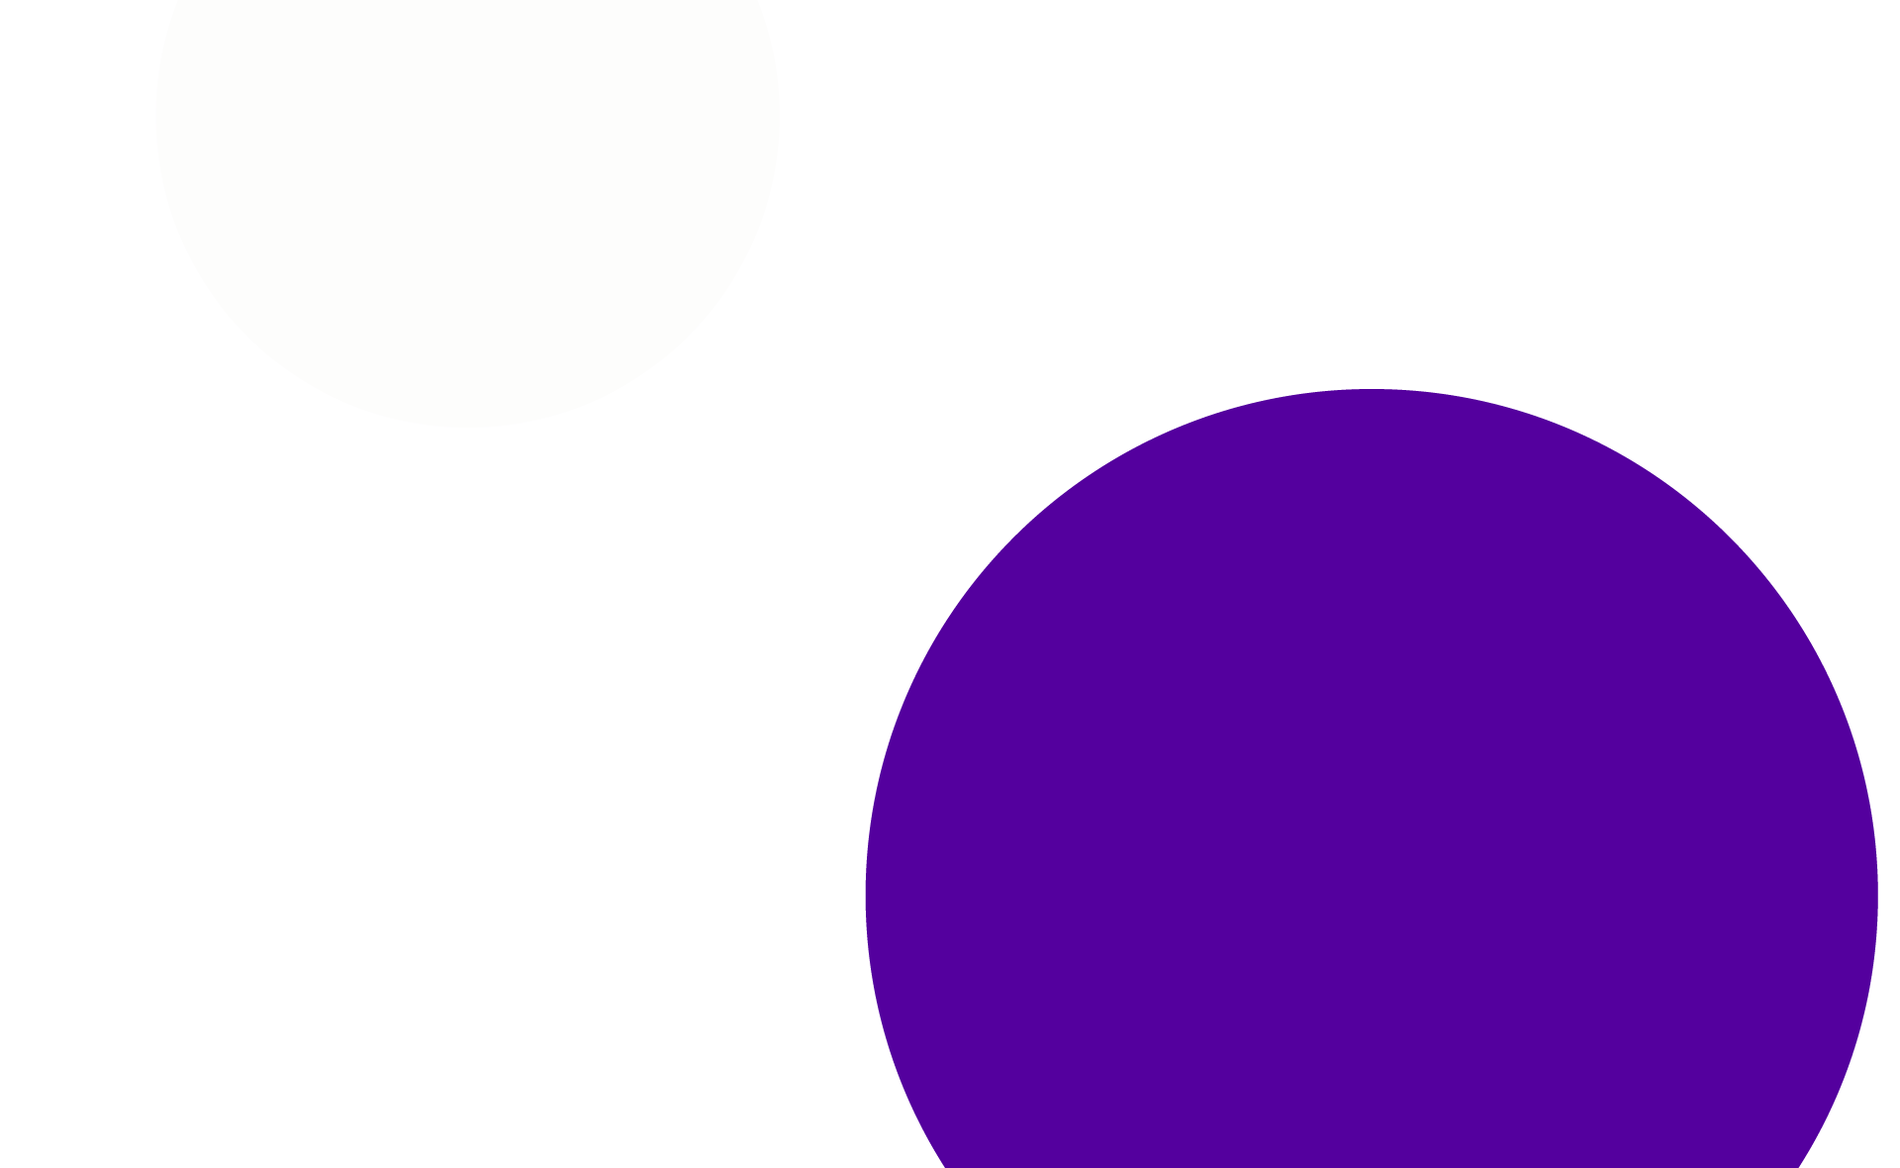
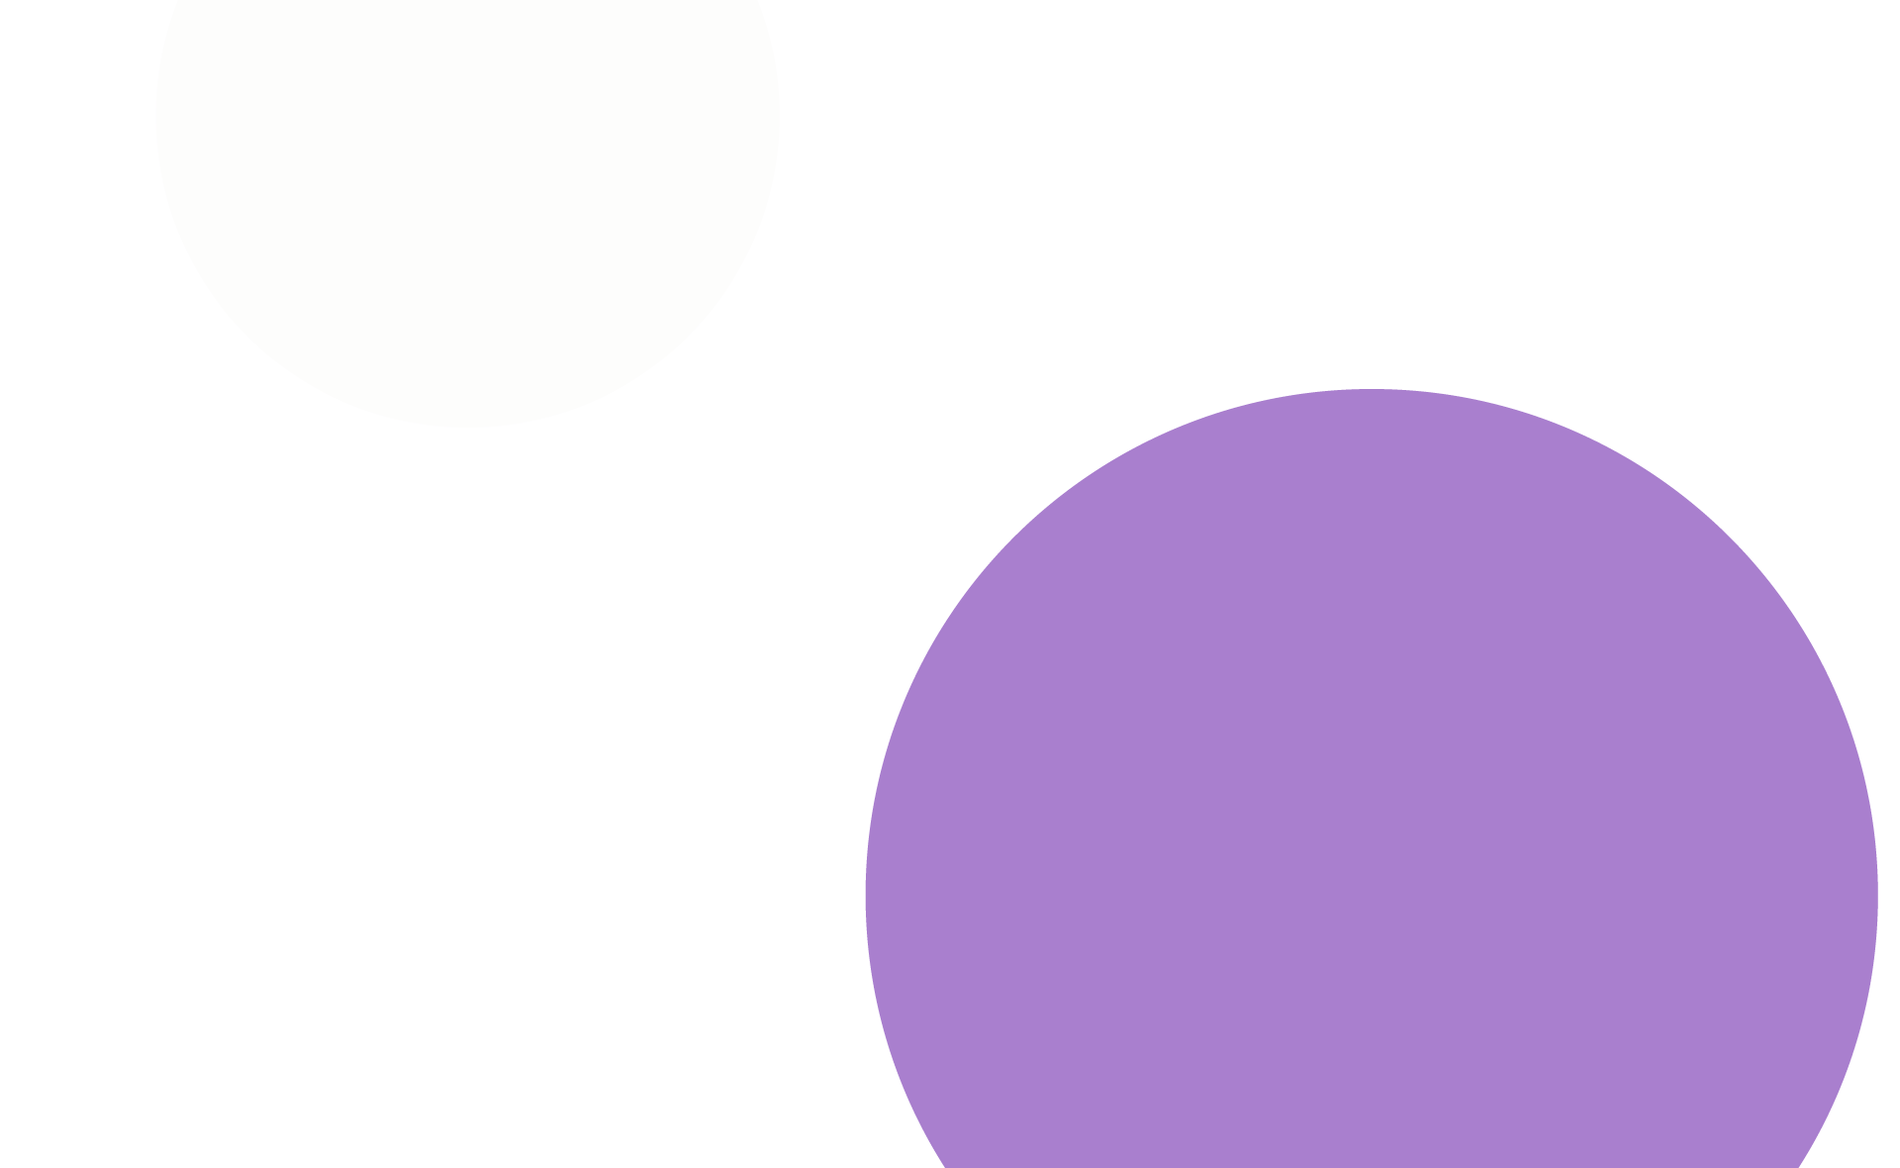
Ajuste cores do hero e ajuste nos icones do footer

Changed region(s): [[0.4375, 0.3356, 1.0, 1.0]]

diff --git a/sobre-mim.html b/sobre-mim.html
@@ -38,14 +38,11 @@
                     <div class="bio-text">
                         <h2 class="title-section">Há 9 anos trabalhando com comunicação visual.</h2>
                         <div class="left-red-line-spacing-1-2"></div>
-                        <h3>Formação em Design Gráfico e
-                            histórico como Diretor de Arte
-                            e UX/UI Designer.
+                        <h3>Formação em Design Gráfico e histórico como Diretor de Arte e UX/UI Designer.
                         </h3>
-                        <p>Experiência desenvolvendo de
-                            sites utilizando HTML, CSS, JavaScript e WordPress. Criação de logotipos e materiais
-                            gráficos utilizando Illustrator, Photoshop, CorelDRAW e Figma. Edição e animação de
-                            anúncios em vídeos utilizando Premiere e After Effects.
+                        <p>Experiência desenvolvendo sites em HTML, CSS, JavaScript e também WordPress. Atuo na criação
+                            de logotipos e materiais gráficos utilizando Illustrator, Photoshop, CorelDRAW e Figma.
+                            Também na edição e animação de anúncios em vídeos utilizando Premiere e After Effects.
                         </p>
                     </div>
 
@@ -82,7 +79,8 @@
                                     <ol class="skill-accordeon-text">
                                         <li class="accordeon-list">Estruturação semântica de páginas web.</li>
                                         <li class="accordeon-list">Otimização para motores de busca (SEO técnico).</li>
-                                        <li class="accordeon-list">Implementação de padrões de acessibilidade digital.</li>
+                                        <li class="accordeon-list">Implementação de padrões de acessibilidade digital.
+                                        </li>
                                         <li class="accordeon-list">Organização da arquitetura de tags do site.</li>
                                     </ol>
                                 </div>
@@ -103,10 +101,13 @@
                             <div class="accordion-content">
                                 <div class="content-inner">
                                     <ol class="skill-accordeon-text">
-                                        <li class="accordeon-list">Criação de menus retráteis, abas navegáveis e carrosséis de imagens.</li>
-                                        <li class="accordeon-list">Aplicação de efeitos visuais acionados por cliques ou rolagem de página.
+                                        <li class="accordeon-list">Criação de menus retráteis, abas navegáveis e
+                                            carrosséis de imagens.</li>
+                                        <li class="accordeon-list">Aplicação de efeitos visuais acionados por cliques ou
+                                            rolagem de página.
                                         </li class="accordeon-list">
-                                        <li class="accordeon-list">Validação de campos em formulários e armazenamento de informações locais no
+                                        <li class="accordeon-list">Validação de campos em formulários e armazenamento de
+                                            informações locais no
                                             navegador.
                                         </li>
                                     </ol>
@@ -128,7 +129,8 @@
                             <div class="accordion-content">
                                 <div class="content-inner">
                                     <ol class="skill-accordeon-text">
-                                        <li class="accordeon-list">Desenvolvimento de sites com diversos temas e plugins</li>
+                                        <li class="accordeon-list">Desenvolvimento de sites com diversos temas e plugins
+                                        </li>
                                         <li class="accordeon-list">Otimização de carregamento de páginas e cache.</li>
                                         <li class="accordeon-list">Integração de lojas virtuais e landing pages.</li>
                                     </ol>
@@ -152,10 +154,12 @@
                             <div class="accordion-content">
                                 <div class="content-inner">
                                     <ol class="skill-accordeon-text">
-                                        <li class="accordeon-list">Desenvolvimento responsivo com Flexbox e Grid Layout.</li>
+                                        <li class="accordeon-list">Desenvolvimento responsivo com Flexbox e Grid Layout.
+                                        </li>
                                         <li class="accordeon-list">Estilização de interfaces e controle de layouts.</li>
                                         <li class="accordeon-list">Criação de animações e microinterações nativas.</li>
-                                        <li class="accordeon-list">Resolução de quebras de layout em múltiplos dispositivos.</li>
+                                        <li class="accordeon-list">Resolução de quebras de layout em múltiplos
+                                            dispositivos.</li>
                                     </ol>
                                 </div>
                             </div>
@@ -175,9 +179,12 @@
                             <div class="accordion-content">
                                 <div class="content-inner">
                                     <ol class="skill-accordeon-text">
-                                        <li class="accordeon-list">Controle de versão de código e rastreamento de alterações.</li>
-                                        <li class="accordeon-list">Gerenciamento de repositórios remotos e fluxos em equipe.</li>
-                                        <li class="accordeon-list">Envio seguro de atualizações locais para o servidor.</li>
+                                        <li class="accordeon-list">Controle de versão de código e rastreamento de
+                                            alterações.</li>
+                                        <li class="accordeon-list">Gerenciamento de repositórios remotos e fluxos em
+                                            equipe.</li>
+                                        <li class="accordeon-list">Envio seguro de atualizações locais para o servidor.
+                                        </li>
                                         </li>
                                     </ol>
                                 </div>
@@ -198,8 +205,10 @@
                             <div class="accordion-content">
                                 <div class="content-inner">
                                     <ol class="skill-accordeon-text">
-                                        <li class="accordeon-list">Desenvolvimento de layouts responsivos para múltiplos dispositivos.</li>
-                                        <li class="accordeon-list">Criação de templates globais de cabeçalho, rodapé e posts.</li>
+                                        <li class="accordeon-list">Desenvolvimento de layouts responsivos para múltiplos
+                                            dispositivos.</li>
+                                        <li class="accordeon-list">Criação de templates globais de cabeçalho, rodapé e
+                                            posts.</li>
                                         <li v>Integração de formulários, pop-ups e widgets dinâmicos.</li>
                                     </ol>
                                 </div>
@@ -234,10 +243,14 @@
                             <div class="accordion-content">
                                 <div class="content-inner">
                                     <ol class="skill-accordeon-text">
-                                        <li class="accordeon-list">Criação de logotipos, identidades visuais e marcas.</li>
-                                        <li class="accordeon-list">Desenvolvimento de iconografia e ilustrações vetoriais.</li>
-                                        <li class="accordeon-list">Diagramação de materiais impressos e institucionais.</li>
-                                        <li class="accordeon-list">Fechamento de arquivos para impressão e facas de corte.</li>
+                                        <li class="accordeon-list">Criação de logotipos, identidades visuais e marcas.
+                                        </li>
+                                        <li class="accordeon-list">Desenvolvimento de iconografia e ilustrações
+                                            vetoriais.</li>
+                                        <li class="accordeon-list">Diagramação de materiais impressos e institucionais.
+                                        </li>
+                                        <li class="accordeon-list">Fechamento de arquivos para impressão e facas de
+                                            corte.</li>
                                     </ol>
                                 </div>
                             </div>
@@ -257,9 +270,11 @@
                             <div class="accordion-content">
                                 <div class="content-inner">
                                     <ol class="skill-accordeon-text">
-                                        <li class="accordeon-list">Edição e montagem de vídeos institucionais e comerciais.</li>
+                                        <li class="accordeon-list">Edição e montagem de vídeos institucionais e
+                                            comerciais.</li>
                                         <li class="accordeon-list">Animação de anúncios para redes sociais.</li>
-                                        <li class="accordeon-list">Tratamento de áudios, equalização e sincronização de trilhas.</li>
+                                        <li class="accordeon-list">Tratamento de áudios, equalização e sincronização de
+                                            trilhas.</li>
                                     </ol>
                                 </div>
                             </div>
@@ -279,10 +294,14 @@
                             <div class="accordion-content">
                                 <div class="content-inner">
                                     <ol class="skill-accordeon-text">
-                                        <li class="accordeon-list">Criação de layouts de interface (UI) web e mobile.</li>
-                                        <li class="accordeon-list">Prototipagem interativa para validação de usabilidade.</li>
-                                        <li class="accordeon-list">Construção de Design Systems com componentes e variantes.</li>
-                                        <li class="accordeon-list">Exportação de especificações para o desenvolvimento.</li>
+                                        <li class="accordeon-list">Criação de layouts de interface (UI) web e mobile.
+                                        </li>
+                                        <li class="accordeon-list">Prototipagem interativa para validação de
+                                            usabilidade.</li>
+                                        <li class="accordeon-list">Construção de Design Systems com componentes e
+                                            variantes.</li>
+                                        <li class="accordeon-list">Exportação de especificações para o desenvolvimento.
+                                        </li>
                                     </ol>
                                 </div>
                             </div>
@@ -304,10 +323,12 @@
                             <div class="accordion-content">
                                 <div class="content-inner">
                                     <ol class="skill-accordeon-text">
-                                        <li class="accordeon-list">Tratamento de fotografias e ajuste técnico de cor.</li>
+                                        <li class="accordeon-list">Tratamento de fotografias e ajuste técnico de cor.
+                                        </li>
                                         <li class="accordeon-list">Manipulação de imagens e fusões digitais.</li>
                                         <li class="accordeon-list">Criação de mockups de produtos e embalagens.</li>
-                                        <li class="accordeon-list">Desenvolvimento de criativos para anúncios e banners.</li>
+                                        <li class="accordeon-list">Desenvolvimento de criativos para anúncios e banners.
+                                        </li>
                                     </ol>
                                 </div>
                             </div>
@@ -328,7 +349,8 @@
                                 <div class="content-inner">
                                     <ol class="skill-accordeon-text">
                                         <li class="accordeon-list">Criação de motion graphics e animações de texto.</li>
-                                        <li class="accordeon-list">Desenvolvimento de vinhetas, introduções e transições.</li>
+                                        <li class="accordeon-list">Desenvolvimento de vinhetas, introduções e
+                                            transições.</li>
                                         <li class="accordeon-list">Animação de elementos de interface (UI Motion).</li>
                                     </ol>
                                 </div>
@@ -350,9 +372,12 @@
                                 <div class="content-inner">
                                     <ol class="skill-accordeon-text">
                                         <li class="accordeon-list">Vetorização de imagens e desenhos técnicos.</li>
-                                        <li class="accordeon-list">Diagramação de impressos de grande formato (banners e outdoors).</li>
-                                        <li class="accordeon-list">Layouts para brindes, estamparia e comunicação visual.</li>
-                                        <li class="accordeon-list">Preparação de arquivos para plotters e gráficas (CMYK).</li>
+                                        <li class="accordeon-list">Diagramação de impressos de grande formato (banners e
+                                            outdoors).</li>
+                                        <li class="accordeon-list">Layouts para brindes, estamparia e comunicação
+                                            visual.</li>
+                                        <li class="accordeon-list">Preparação de arquivos para plotters e gráficas
+                                            (CMYK).</li>
                                     </ol>
                                 </div>
                             </div>
@@ -426,7 +451,7 @@
                                     <div class="accordion-card">
                                         <div class="skill-info">
                                             <div class="experience-details">
-                                                <h4 class="black-text">Diretor de Arte <span style="font-weight:400"><a
+                                                <h4 class="black-text">Analista de Criação <span style="font-weight:400"><a
                                                             href="https://www.linkedin.com/company/tiberis-ag%C3%AAncia/"
                                                             target="_blank">(Agência Tiberis)</a></h4>
                                                 <span class="experience-date">2021 - 2022</span>

diff --git a/footer.html b/footer.html
@@ -17,23 +17,36 @@
     <div class="main-footer">
         <div class="container">
             <div class="left-footer-column">
-                <a href="">
+                <a href="https://vitormartins.net/">
                     <img src="svg/vitor-martins-icon.svg" class="footer-logo-img">
                 </a>
                 <p>
-                    &copy; <span id="ano-atual"></span> - Desenvolvido por <a
+                    <span id="ano-atual"></span> - Desenvolvido por <a
                         href="https://www.linkedin.com/in/vitor-martins-b43408286/" target="_blank">Vitor Martins</a>
                 </p>
             </div>
             <div class="right-footer-column">
 
-                <a class="footer-github-link" href="https://github.com/v1torm4rtins/vitormartins.net" target="_blank">
-                    <svg class="footer-github-icon" xmlns="http://www.w3.org/2000/svg" viewBox="0 0 131.34 125.9">
-                        <path
-                            d="M131.34,60.63v7.7c-.98,11.42-4.38,22.21-10.87,31.71-8.3,12.26-20.55,21.41-34.7,25.75-1.03.32-2.39-.26-3-.76-.67-.55-1-1.58-1-2.57l.06-17.95c.02-4.22-1.35-8.48-4.27-11.51,12.61-1.4,23.36-5.61,27.73-18.12,1.5-4.2,1.95-8.45,2.07-12.92.18-6.75-2.05-13.12-6.7-18.06,2-5.64,1.53-11.7-.75-17.19-2.38-.21-4.39.22-6.53.85-4.07,1.4-7.71,3.41-11.36,5.83-10.79-2.86-21.96-2.89-32.84,0-4.78-3.06-11.9-7.27-17.99-6.69-2.27,5.34-2.79,11.64-.7,17.21-4.49,4.78-6.79,10.92-6.72,17.49.13,12.37,3.8,22.9,15.75,28.18,4.39,1.99,8.93,2.81,14.01,3.49-2.29,2.41-3.56,5.27-3.99,8.59-3.27,1.47-6.71,2.09-10.21,1.47-3.63-.73-6.54-3-8.49-6.14-1.78-2.88-4.06-5.34-7.27-6.57-1.77-.68-5.38-1.25-6.12.16-.6,1.15,2.43,2.99,3.35,3.63,2.79,1.92,4.45,4.72,5.94,7.72,3.41,9.86,13.1,11.81,22.55,9.78l.05,11.31c0,2.08-2.03,3.06-4.04,2.86-14.81-4.72-27.53-14.57-35.76-27.83C-4.2,75.89-3,47.67,12.47,26.71,25.1,9.62,45.2-.23,66.44,0c22.59.25,43.57,11.95,55.44,31.15,5.57,9.02,8.58,19.06,9.46,29.47Z" />
-                    </svg>
-                    <span class="footer-github-label">Repositório GitHub</span>
+                <a href="http://wa.me/+5515981153168/" class="link-social-wrapper">
+                    <img src="svg/whatsapp-purple-icon.svg" class="img-default" alt="WhatsApp">
+                    <img src="svg/whatsapp-red-icon.svg" class="img-hover" alt="WhatsApp">
                 </a>
+
+                <a href="contato@vitormartins.net" class="link-social-wrapper">
+                    <img src="svg/email-purple-icon.svg" class="img-default" alt="E-mail">
+                    <img src="svg/email-red-icon.svg" class="img-hover" alt="E-mail">
+                </a>
+
+                <a href="https://www.linkedin.com/in/vitor-martins-b43408286/" class="link-social-wrapper">
+                    <img src="svg/linkedin-purple-icon.svg" class="img-default" alt="LinkedIn">
+                    <img src="svg/linkedin-red-icon.svg" class="img-hover" alt="LinkedIn">
+                </a>
+
+                <a href="https://github.com/v1torm4rtins/vitormartins.net" class="link-social-wrapper">
+                    <img src="svg/github-purple-icon.svg" class="img-default" alt="Github">
+                    <img src="svg/github-red-icon.svg" class="img-hover" alt="Github">
+                </a>
+
             </div>
         </div>
     </div>

diff --git a/css/footer.css b/css/footer.css
@@ -87,7 +87,7 @@ main {
 
 .right-footer-column {
   display: flex;
-  gap: 10px;
+  gap: 20px;
   flex-direction: row;
   align-items: center;
 }
@@ -98,22 +98,34 @@ main {
   justify-content: center;
 }
 
-a.footer-github-link {
-  fill: var(--light-purple-color);
-  gap: 10px;
+.link-social-wrapper {
+  position: relative;
+  display: inline-block;
+  width: 30px;
+  height: 30px;
 }
 
-a.footer-github-link:hover {
-  fill: var(--red-color);
-  color: var(--white-color) !important;
+/* Força as duas imagens a ficarem no mesmo espaço */
+.link-social-wrapper img {
+  position: absolute;
+  top: 0;
+  left: 0;
+  width: 100%;
+  height: 100%;
 }
 
-span.footer-github-label:hover {
-  color: var(--white-color) !important;
+/* Esconde a vermelha por padrão */
+.link-social-wrapper .img-hover {
+  opacity: 0;
 }
 
-svg.footer-github-icon {
-  height: 28px;
+/* Quando passa o mouse: esconde a roxa e mostra a vermelha */
+.link-social-wrapper:hover .img-default {
+  opacity: 0;
+}
+
+.link-social-wrapper:hover .img-hover {
+  opacity: 1;
 }
 
 
